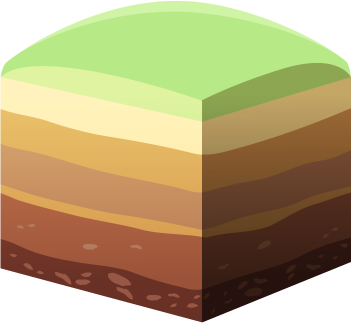
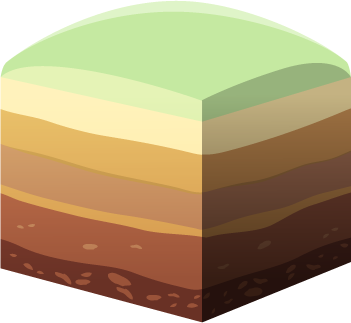
1

Changed region(s): [[0.0, 0.0, 1.0, 0.4025]]

diff --git a/style.css b/style.css
@@ -431,6 +431,30 @@ header h1 {
     display: flex;
     flex-direction: column;
     justify-content: space-between;
+    overflow: hidden;
+}
+
+/* カード背景画像（chiso.png）の半透明配置 */
+.area-card::before {
+    content: '';
+    position: absolute;
+    top: 0;
+    left: 0;
+    width: 100%;
+    height: 100%;
+    background-image: url('image/chiso.png');
+    background-size: 60% auto;
+    background-repeat: no-repeat;
+    background-position: center;
+    opacity: 0.5;
+    pointer-events: none;
+    z-index: 0;
+}
+
+/* カード内のコンテンツを背景画像より前面に表示 */
+.area-card > * {
+    position: relative;
+    z-index: 1;
 }
 
 .area-card.active-card {
